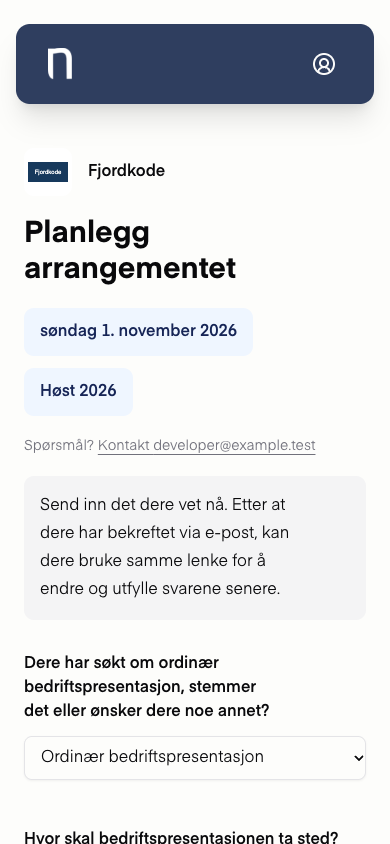
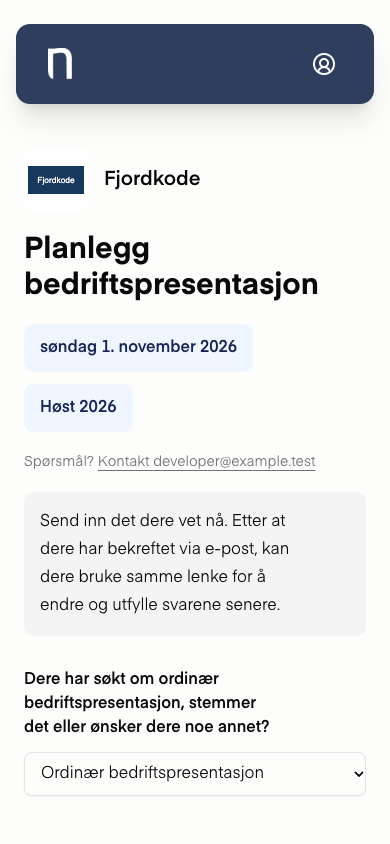
feat: show planning contacts and use English form routes

diff --git a/apps/hugin/src/components/event-planning/company-planning.tsx b/apps/hugin/src/components/event-planning/company-planning.tsx
@@ -42,10 +42,10 @@ function Planning({ token }: Readonly<{ token: string }>) {
 		<div className="mx-auto w-full max-w-[65ch] py-5 sm:py-8">
 			<header className="mb-8 space-y-5">
 				<div className="flex items-center gap-4">
-					<CompanyLogo name={data.companyName} url={data.logoUrl} size="lg" />
-					<p className="font-semibold">{data.companyName}</p>
+					<CompanyLogo name={data.companyName} url={data.logoUrl} size="xl" />
+					<p className="min-w-0 break-words font-semibold text-xl">{data.companyName}</p>
 				</div>
-				{!sent && <h1 className="font-bold text-3xl">Planlegg arrangementet</h1>}
+				{!sent && <h1 className="font-bold text-3xl">Planlegg bedriftspresentasjon</h1>}
 				<div className="flex flex-wrap gap-3">
 					<div className="rounded-lg bg-blue-50 px-4 py-3 text-blue-950 dark:bg-blue-950 dark:text-blue-100">
 						<p className="font-semibold">
@@ -96,6 +96,35 @@ function Planning({ token }: Readonly<{ token: string }>) {
 						setSent(true);
 					}}
 				/>
+			)}
+			{data.organizers.length > 0 && (
+				<section className="mt-12 space-y-5" aria-labelledby="organizers-heading">
+					<h2 id="organizers-heading" className="font-semibold text-lg">
+						Kontaktpersoner fra Navet
+					</h2>
+					<ul className="grid gap-6 sm:grid-cols-2">
+						{[...data.organizers]
+							.sort(
+								(a, b) => Number(b.role === "hovedansvarlig") - Number(a.role === "hovedansvarlig"),
+							)
+							.map((organizer) => (
+								<li key={`${organizer.role}-${organizer.email}`} className="min-w-0 space-y-1">
+									<p className="text-muted-foreground text-sm">
+										{organizer.role === "hovedansvarlig" ? "Hovedansvarlig" : "Medhjelper"}
+									</p>
+									<p className="font-semibold">{organizer.name}</p>
+									{organizer.email && (
+										<a
+											className="break-words text-sm underline underline-offset-4"
+											href={`mailto:${organizer.email}`}
+										>
+											{organizer.email}
+										</a>
+									)}
+								</li>
+							))}
+					</ul>
+				</section>
 			)}
 			<div className="mt-8">{contact}</div>
 		</div>

diff --git a/packages/backend/convex/events/planning/helpers.ts b/packages/backend/convex/events/planning/helpers.ts
@@ -87,6 +87,7 @@ export async function senderFor(ctx: QueryCtx, eventId: Id<"events">) {
 		complete: !!main && contacts.length >= 2 && contacts.every((o) => validContactEmail(o.email)),
 		mainName: main?.name ?? "",
 		mainEmail: main?.email ?? "",
+		contacts: contacts.map(({ name, email, role }) => ({ name, email, role })),
 	};
 }
 export async function initialPlanning(ctx: QueryCtx, event: Doc<"events">) {
@@ -213,7 +214,7 @@ export async function invitationPreview(
 		to: planning.contactEmail,
 		cc: sender.cc.filter((email) => email !== planning.contactEmail),
 		replyTo: sender.replyTo,
-		subject: `Planlegg arrangementet med Navet ${formatOsloDate(event.eventStart, "d. MMMM")}`,
+		subject: `Planlegg bedriftspresentasjon med Navet ${formatOsloDate(event.eventStart, "d. MMMM")}`,
 		text: `Hei ${planning.contactName}!\n\nJeg er kontaktpersonen deres fra Navet for arrangementet ${formatOsloDate(event.eventStart, "EEEE d. MMMM yyyy")}. Vi gleder oss til å møte dere!\n\nVi har gjort klart et skjema med opplysningene vi allerede har. Se gjerne over og fyll inn det dere vet om innholdet og det praktiske. Dere kan bruke samme lenke for å oppdatere senere.\n\nVi trenger tittel, introduksjon og beskrivelse før påmeldingen åpner. Kontakt meg gjerne hvis dere har spørsmål eller ønsker å ha et møte. Velg gjerne «svar alle», så får medansvarlige også med seg samtalen.\n\nMed vennlig hilsen\n${planning.signature}`,
 	};
 	return {

diff --git a/packages/backend/convex/events/planning/mail.test.ts b/packages/backend/convex/events/planning/mail.test.ts
@@ -6,16 +6,16 @@ import { expect, it } from "vitest";
 it("places the planning link before the organizer signature", async () => {
 	const html = await render(
 		EventPlanningEmail({
-			subject: "Planlegg arrangementet",
+			subject: "Planlegg bedriftspresentasjon",
 			text: "Hei!\n\nFyll inn skjemaet.\n\nMed vennlig hilsen\nArrangør",
-			url: "https://example.test/planlegg-arrangement",
+			url: "https://example.test/event-planning",
 			confirmation: false,
 		}),
 	);
 	expect(html.indexOf("Fyll inn skjemaet.")).toBeLessThan(
-		html.indexOf('href="https://example.test/planlegg-arrangement"'),
+		html.indexOf('href="https://example.test/event-planning"'),
 	);
-	expect(html.indexOf('href="https://example.test/planlegg-arrangement"')).toBeLessThan(
+	expect(html.indexOf('href="https://example.test/event-planning"')).toBeLessThan(
 		html.indexOf("Med vennlig hilsen"),
 	);
 	expect(html).toContain("Arrangør");

diff --git a/packages/backend/convex/events/planning/public.ts b/packages/backend/convex/events/planning/public.ts
@@ -35,6 +35,7 @@ export const get = query({
 		const context = await planningByToken(ctx, token);
 		if (!context || context.event.eventStart <= now) return null;
 		const { planning, event } = context;
+		const sender = await senderFor(ctx, event._id);
 		const latest = planning.latestSubmissionId
 			? await ctx.db.get(planning.latestSubmissionId)
 			: null;
@@ -46,7 +47,8 @@ export const get = query({
 			capacityLimit: await capacityLimit(ctx, planning, event),
 			revision: planning.revision,
 			contactEmail: planning.contactEmail,
-			organizerEmail: (await senderFor(ctx, event._id)).mainEmail,
+			organizerEmail: sender.mainEmail,
+			organizers: sender.contacts,
 			submitted: !!latest,
 		};
 	},

diff --git a/apps/hugin/src/lib/private-paths.test.ts b/apps/hugin/src/lib/private-paths.test.ts
@@ -5,8 +5,8 @@ describe("private paths", () => {
 	it("covers the token pages and nothing else", () => {
 		expect(isPrivatePath("/feedback")).toBe(true);
 		expect(isPrivatePath("/report")).toBe(true);
-		expect(isPrivatePath("/planlegg-arrangement")).toBe(true);
-		expect(isPrivatePath("/planlegg-arrangement/bekreft")).toBe(true);
+		expect(isPrivatePath("/event-planning")).toBe(true);
+		expect(isPrivatePath("/event-planning/confirm")).toBe(true);
 		expect(isPrivatePath("/bestill-bedpres/tilbud/abc123")).toBe(true);
 		expect(isPrivatePath("/bestill-bedpres")).toBe(false);
 		expect(isPrivatePath("/bestill-bedpres/kvittering")).toBe(false);

diff --git a/packages/shared/events/planning.ts b/packages/shared/events/planning.ts
@@ -2,8 +2,8 @@ import { z } from "zod";
 import { STUDENT_CAP } from "../semester/application";
 import { EVENT_TYPES, type EventType, FOOD_PURCHASERS } from "../semester/labels";
 
-export const PLANNING_PATH = "/planlegg-arrangement";
-export const PLANNING_CONFIRM_PATH = `${PLANNING_PATH}/bekreft`;
+export const PLANNING_PATH = "/event-planning";
+export const PLANNING_CONFIRM_PATH = `${PLANNING_PATH}/confirm`;
 export const ANSWER_CHOICES = { yes: "Ja", no: "Nei", unsure: "Ikke avklart" } as const;
 export const AGE_BY_ALCOHOL = { yes: "18", no: "none", unsure: "unsure" } as const;
 export const VENUE_CHOICES = {

diff --git a/packages/backend/convex/events/planning/flow.test.ts b/packages/backend/convex/events/planning/flow.test.ts
@@ -258,6 +258,12 @@ describe("company event planning", () => {
 	it("exposes the main organizer email as the company contact", async () => {
 		const f = await invited();
 		expect(f.form.organizerEmail).toBe("lead@ifinavet.no");
+		expect(f.form.organizers).toEqual(
+			expect.arrayContaining([
+				{ name: expect.any(String), email: "lead@ifinavet.no", role: "hovedansvarlig" },
+				{ name: expect.any(String), email: "helper@ifinavet.no", role: "medhjelper" },
+			]),
+		);
 	});
 	it("expires confirmation links and invalidates old links on recipient correction", async () => {
 		const f = await submitted();

diff --git a/packages/emails/emails/event-planning-email.tsx b/packages/emails/emails/event-planning-email.tsx
@@ -14,7 +14,7 @@ export default function EventPlanningEmail({
 		<OrderLayout preview={subject} contactEmail={COMPANY_CONTACT_EMAIL} showSignature={false}>
 			<Text style={{ whiteSpace: "pre-line", lineHeight: "1.7" }}>{body}</Text>
 			<OrderButton href={url}>
-				{confirmation ? "Bekreft opplysningene" : "Planlegg arrangementet"}
+				{confirmation ? "Bekreft opplysningene" : "Planlegg bedriftspresentasjon"}
 			</OrderButton>
 			{signature && <Text style={{ whiteSpace: "pre-line", lineHeight: "1.7" }}>{signature}</Text>}
 		</OrderLayout>

diff --git a/apps/bifrost/src/components/events/event-planning-panel.tsx b/apps/bifrost/src/components/events/event-planning-panel.tsx
@@ -293,7 +293,7 @@ function Invitation({
 			<div className="rounded-lg border p-5">
 				<p className="whitespace-pre-line text-sm leading-relaxed">{body}</p>
 				<div className="mt-5 inline-block rounded-md bg-primary px-4 py-2 text-primary-foreground">
-					Planlegg arrangementet
+					Planlegg bedriftspresentasjon
 				</div>
 				{signature && (
 					<p className="mt-5 whitespace-pre-line text-sm leading-relaxed">{signature}</p>

diff --git a/apps/hugin/src/app/event-planning/page.tsx b/apps/hugin/src/app/event-planning/page.tsx
@@ -1,7 +1,7 @@
 import type { Metadata } from "next";
 import { CompanyPlanning } from "@/components/event-planning/company-planning";
 export const metadata: Metadata = {
-	title: "Planlegg arrangementet",
+	title: "Planlegg bedriftspresentasjon",
 	robots: { index: false, follow: false },
 	referrer: "no-referrer",
 };

diff --git a/packages/ui/src/components/company-logo.tsx b/packages/ui/src/components/company-logo.tsx
@@ -4,6 +4,7 @@ import Image from "next/image";
 const SIZES = {
 	sm: { pixels: 32, className: "size-8 rounded-md text-[10px]" },
 	lg: { pixels: 48, className: "size-12 rounded-lg text-[13px]" },
+	xl: { pixels: 64, className: "size-16 rounded-lg text-lg" },
 };
 
 export function CompanyLogo({

diff --git a/apps/hugin/src/lib/private-paths.ts b/apps/hugin/src/lib/private-paths.ts
@@ -8,8 +8,8 @@
 const PRIVATE_PAGES = new Set([
 	"/feedback",
 	"/report",
-	"/planlegg-arrangement",
-	"/planlegg-arrangement/bekreft",
+	"/event-planning",
+	"/event-planning/confirm",
 ]);
 const PRIVATE_PREFIXES = ["/bestill-bedpres/tilbud/"];
 
